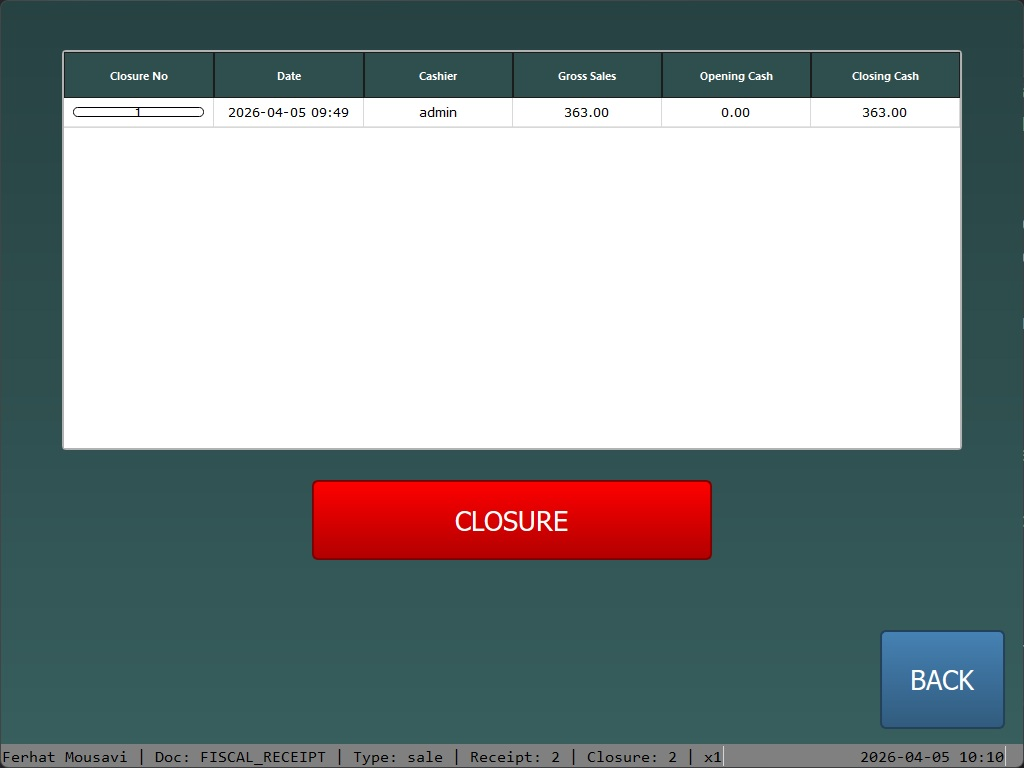
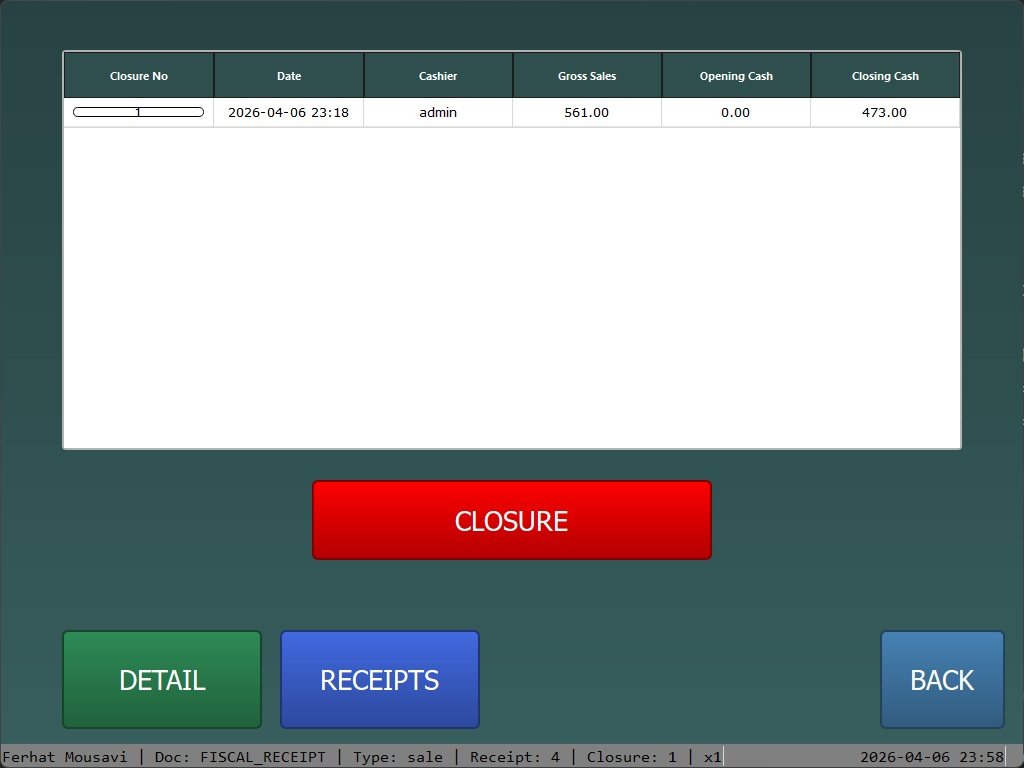
Add closure history sub-forms (CLOSURE_DETAIL, CLOSURE_RECEIPTS, CLOSURE_RECEIPT_DETAIL) with DB-driven dynamic rendering and BACK navigation, and update README with corresponding screenshots.

diff --git a/README.md b/README.md
@@ -361,6 +361,24 @@ Selecting "CLOSURE" opens the end-of-day closure screen:
 > - **RECEIPTS** — Opens the `CLOSURE_RECEIPTS` form listing every receipt (TransactionHead) that belongs to the selected closure. From this form a receipt can be selected and its **DETAIL** button opens the `CLOSURE_RECEIPT_DETAIL` form with full header fields and line items.  
 > All three sub-forms are DB-driven dynamic forms with a **BACK** button in the bottom-right corner to return to the previous screen.
 
+Clicking **DETAIL** on a selected closure opens the closure detail summary:
+
+![Closure Detail Form](static_files/images/sample_closure_detail_form.jpg)
+
+> Closure Detail form showing a key/value summary of the selected closure period: closure number, unique ID, date, start/end times, opened/closed by cashier, document counts, gross/net sales, total tax, discount, and tip amounts.
+
+Clicking **RECEIPTS** on a selected closure lists all receipts for that period:
+
+![Closure Receipts Form](static_files/images/sample_closure_receipts_form.jpg)
+
+> Closure Receipts form listing every receipt (TransactionHead) belonging to the selected closure, with columns for Receipt No, Date/Time, Type, Total, Payment, Change, and Status. Select a receipt and press **DETAIL** to drill into its line items.
+
+Clicking **DETAIL** on a selected receipt opens the full receipt breakdown:
+
+![Closure Receipt Details Form](static_files/images/sample_closure_receipt_details_form.jpg)
+
+> Closure Receipt Details form displaying the receipt header (receipt number, unique ID, date/time, document type, transaction type, status) alongside a line-item table showing product name, code, quantity, unit, unit price, discount, VAT%, total, and line status.
+
 Selecting "SETTINGS" opens the POS settings panel:
 
 ![Settings Form](static_files/images/sample_settings_form.jpg)
